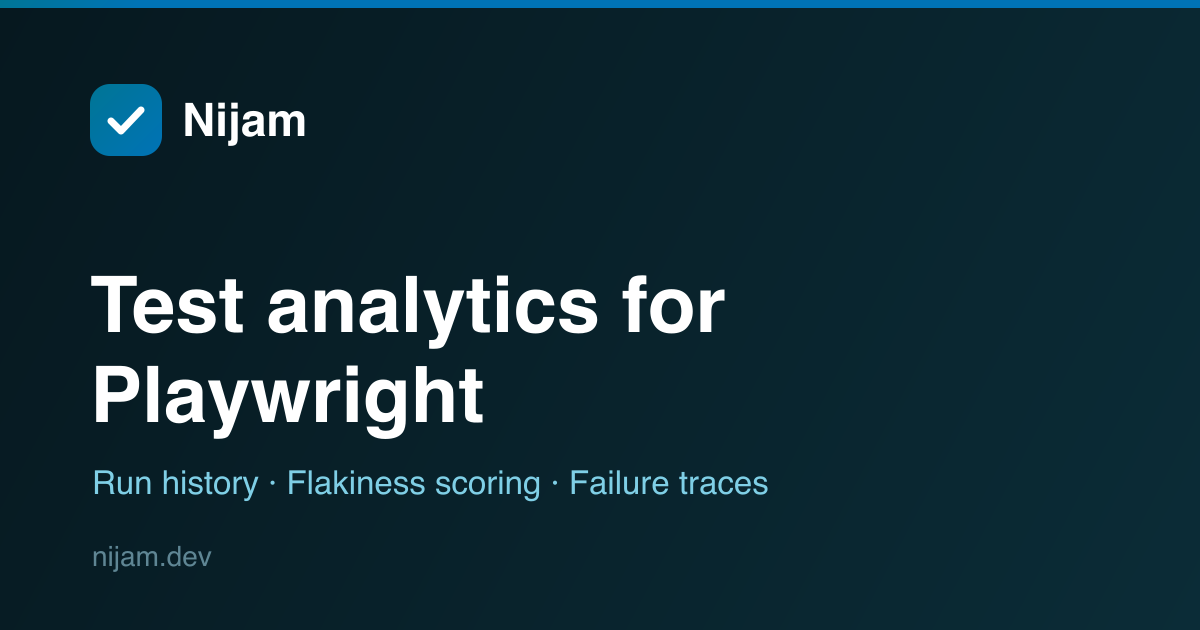
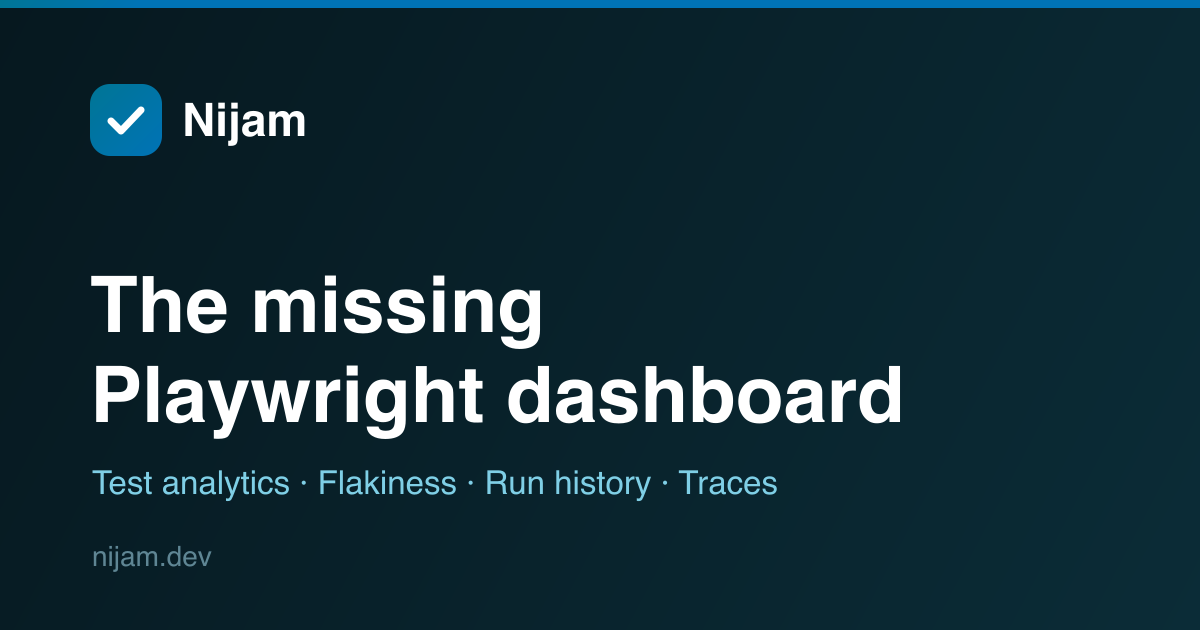
chore: update og and seo titles for dashboard pages

Changed region(s): [[0.0925, 0.4222, 0.7708, 0.6937], [0.0617, 0.7238, 0.6475, 0.7841]]

diff --git a/src/lib/seo.ts b/src/lib/seo.ts
@@ -9,9 +9,9 @@ const SITE_URL = 'https://www.nijam.dev';
 const SITE_NAME = 'Nijam';
 const OG_IMAGE = `${SITE_URL}/og.png`;
 
-export const DEFAULT_TITLE = 'Nijam — test analytics for Playwright';
+export const DEFAULT_TITLE = 'Nijam — Playwright test analytics & flakiness dashboard';
 export const DEFAULT_DESCRIPTION =
-  'Nijam captures every Playwright run from CI and gives you run history, flakiness scoring, and failure traces. Think Sentry, for your Playwright suite.';
+  'The missing dashboard for your Playwright suite — run history, flakiness scoring, and failure traces from every CI run. Think Sentry, for Playwright.';
 
 interface SeoInput {
   /** Page-specific title; rendered as "<title> · Nijam". Omit for the site default. */
@@ -46,4 +46,22 @@ export function seo({ title, description, path = '', noindex = false }: SeoInput
   ];
 
   return { meta, links: [{ rel: 'canonical', href: url }] };
+}
+
+/**
+ * Minimal head for private (dashboard) pages: a page title + `noindex`. No OG or
+ * canonical — these pages are never indexed or shared, and a canonical on a
+ * noindexed page sends mixed signals to crawlers.
+ */
+export function privateSeo(title: string) {
+  return {
+    meta: [{ title: `${title} · ${SITE_NAME}` }, { name: 'robots', content: 'noindex, nofollow' }],
+  };
+}
+
+/** Site-wide fallback head (root route): a default indexable title + description. */
+export function baseHead() {
+  return {
+    meta: [{ title: DEFAULT_TITLE }, { name: 'description', content: DEFAULT_DESCRIPTION }],
+  };
 }

diff --git a/index.html b/index.html
@@ -7,28 +7,36 @@
     <!-- Static SEO fallbacks for non-JS scrapers (homepage defaults). When the app
          boots, main.tsx removes [data-seo-default] and TanStack Router's
          <HeadContent /> takes over with the correct per-route tags. -->
-    <title data-seo-default>Nijam — test analytics for Playwright</title>
+    <title data-seo-default>Nijam — Playwright test analytics &amp; flakiness dashboard</title>
     <meta
       data-seo-default
       name="description"
-      content="Nijam captures every Playwright run from CI and gives you run history, flakiness scoring, and failure traces. Think Sentry, for your Playwright suite."
+      content="The missing dashboard for your Playwright suite — run history, flakiness scoring, and failure traces from every CI run. Think Sentry, for Playwright."
     />
     <meta data-seo-default property="og:type" content="website" />
     <meta data-seo-default property="og:site_name" content="Nijam" />
-    <meta data-seo-default property="og:title" content="Nijam — test analytics for Playwright" />
+    <meta
+      data-seo-default
+      property="og:title"
+      content="Nijam — Playwright test analytics &amp; flakiness dashboard"
+    />
     <meta
       data-seo-default
       property="og:description"
-      content="Run history, flakiness scoring, and failure traces for your Playwright suite."
+      content="The missing dashboard for your Playwright suite — run history, flakiness scoring, and failure traces from every CI run."
     />
     <meta data-seo-default property="og:url" content="https://www.nijam.dev" />
     <meta data-seo-default property="og:image" content="https://www.nijam.dev/og.png" />
     <meta data-seo-default name="twitter:card" content="summary_large_image" />
-    <meta data-seo-default name="twitter:title" content="Nijam — test analytics for Playwright" />
+    <meta
+      data-seo-default
+      name="twitter:title"
+      content="Nijam — Playwright test analytics &amp; flakiness dashboard"
+    />
     <meta
       data-seo-default
       name="twitter:description"
-      content="Run history, flakiness scoring, and failure traces for your Playwright suite."
+      content="The missing dashboard for your Playwright suite — run history, flakiness scoring, and failure traces from every CI run."
     />
     <meta data-seo-default name="twitter:image" content="https://www.nijam.dev/og.png" />
     <link data-seo-default rel="canonical" href="https://www.nijam.dev" />

diff --git a/src/routes/__root.tsx b/src/routes/__root.tsx
@@ -1,15 +1,17 @@
 import { createRootRouteWithContext, HeadContent, Outlet } from '@tanstack/react-router';
 import type { QueryClient } from '@tanstack/react-query';
-import { seo } from '@/lib/seo';
+import { baseHead } from '@/lib/seo';
 
 export interface RouterContext {
   queryClient: QueryClient;
 }
 
 export const Route = createRootRouteWithContext<RouterContext>()({
-  // Site-wide default head (title/description/OG). Public routes override per page;
-  // this keeps every tab — including the auth-gated dashboard — from going titleless.
-  head: () => seo(),
+  // Site-wide fallback head so no tab is ever titleless. Public routes override
+  // with full seo() (OG/canonical); dashboard routes override with privateSeo()
+  // (title + noindex). Keeping OG/canonical out of here means they only appear on
+  // the public pages that actually set them.
+  head: () => baseHead(),
   component: RootDocument,
 });
 

diff --git a/src/routes/_authed/orgs.$orgId.keys.tsx b/src/routes/_authed/orgs.$orgId.keys.tsx
@@ -13,8 +13,12 @@ import { EmptyState } from '@/components/states/EmptyState';
 import { SettingsPanel } from '@/components/settings/SettingsPanel';
 import { KeyRow } from '@/components/keys/KeyRow';
 import { CreateSecretKeyDialog } from '@/components/keys/CreateSecretKeyDialog';
+import { privateSeo } from '@/lib/seo';
 
-export const Route = createFileRoute('/_authed/orgs/$orgId/keys')({ component: SecretKeysPage });
+export const Route = createFileRoute('/_authed/orgs/$orgId/keys')({
+  head: () => privateSeo('API keys'),
+  component: SecretKeysPage,
+});
 
 function SecretKeysPage() {
   const { orgId } = Route.useParams();

diff --git a/src/routes/_authed/orgs.$orgId.projects.$projectId.explorer_.$testId.tsx b/src/routes/_authed/orgs.$orgId.projects.$projectId.explorer_.$testId.tsx
@@ -25,10 +25,14 @@ import { testStatusMeta } from '@/components/runs/test-status';
 import { displayFile } from '@/lib/format';
 import { gitFileUrl } from '@/lib/git';
 import { cn } from '@/lib/utils';
+import { privateSeo } from '@/lib/seo';
 
 export const Route = createFileRoute(
   '/_authed/orgs/$orgId/projects/$projectId/explorer_/$testId',
-)({ component: TestDetailPage });
+)({
+  head: () => privateSeo('Test detail'),
+  component: TestDetailPage,
+});
 
 function TestDetailPage() {
   const { orgId, projectId, testId } = Route.useParams();

diff --git a/src/routes/_authed/orgs.$orgId.projects.index.tsx b/src/routes/_authed/orgs.$orgId.projects.index.tsx
@@ -15,8 +15,12 @@ import { ErrorState } from '@/components/states/ErrorState';
 import { ProjectCard } from '@/components/projects/ProjectCard';
 import { ProjectsSkeleton } from '@/components/projects/ProjectsSkeleton';
 import { NewProjectDialog } from '@/components/projects/NewProjectDialog';
+import { privateSeo } from '@/lib/seo';
 
-export const Route = createFileRoute('/_authed/orgs/$orgId/projects/')({ component: ProjectsPage });
+export const Route = createFileRoute('/_authed/orgs/$orgId/projects/')({
+  head: () => privateSeo('Projects'),
+  component: ProjectsPage,
+});
 
 function ProjectsPage() {
   const { orgId } = Route.useParams();

diff --git a/src/routes/_authed/orgs.$orgId.users.tsx b/src/routes/_authed/orgs.$orgId.users.tsx
@@ -41,8 +41,12 @@ import { UserAvatar } from '@/components/users/UserAvatar';
 import { isApiError } from '@/lib/api-error';
 import { timeAgo } from '@/lib/format';
 import { notify } from '@/lib/notify';
+import { privateSeo } from '@/lib/seo';
 
-export const Route = createFileRoute('/_authed/orgs/$orgId/users')({ component: UsersPage });
+export const Route = createFileRoute('/_authed/orgs/$orgId/users')({
+  head: () => privateSeo('Members'),
+  component: UsersPage,
+});
 
 function UsersPage() {
   const { orgId } = Route.useParams();

diff --git a/src/routes/_authed/orgs.index.tsx b/src/routes/_authed/orgs.index.tsx
@@ -14,8 +14,12 @@ import { ThemeSegmentedControl } from '@/components/theme/ThemeSegmentedControl'
 import { AccountMenu } from '@/components/users/AccountMenu';
 import { OrgAvatar } from '@/components/orgs/OrgAvatar';
 import { CreateOrgDialog } from '@/components/orgs/CreateOrgDialog';
+import { privateSeo } from '@/lib/seo';
 
-export const Route = createFileRoute('/_authed/orgs/')({ component: OrgsPicker });
+export const Route = createFileRoute('/_authed/orgs/')({
+  head: () => privateSeo('Organizations'),
+  component: OrgsPicker,
+});
 
 function OrgsPicker() {
   const { data, isLoading, error, refetch } = useQuery(listOrgsOptions());

diff --git a/src/routes/_authed/route.tsx b/src/routes/_authed/route.tsx
@@ -1,7 +1,11 @@
 import { createFileRoute, Outlet, redirect } from '@tanstack/react-router';
 import { getMeOptions } from '@/client/@tanstack/react-query.gen';
+import { privateSeo } from '@/lib/seo';
 
 export const Route = createFileRoute('/_authed')({
+  // Every dashboard page is noindex + gets a baseline title. Leaf routes override
+  // the title; this guarantees none are titleless or indexable even if one is missed.
+  head: () => privateSeo('Dashboard'),
   // Gate every nested route behind /v1/auth/me. Redirect to /login on 401.
   // The dashboard shell lives in the org layout (orgs.$orgId), not here, so the
   // org picker (/orgs) renders without it.

diff --git a/src/routes/_authed/orgs.$orgId.billing.tsx b/src/routes/_authed/orgs.$orgId.billing.tsx
@@ -27,8 +27,10 @@ import { UsageMeter, type MeterTone } from '@/components/billing/UsageMeter';
 import { formatCents, formatCount, formatResetDate, isPro, usagePercent } from '@/lib/billing';
 import { isApiError } from '@/lib/api-error';
 import { notify } from '@/lib/notify';
+import { privateSeo } from '@/lib/seo';
 
 export const Route = createFileRoute('/_authed/orgs/$orgId/billing')({
+  head: () => privateSeo('Billing'),
   // `?upgraded=1` is set by the Polar checkout success redirect.
   validateSearch: (search: Record<string, unknown>): { upgraded?: boolean } =>
     search.upgraded === '1' || search.upgraded === true ? { upgraded: true } : {},

diff --git a/src/routes/_authed/orgs.$orgId.projects.$projectId.explorer.tsx b/src/routes/_authed/orgs.$orgId.projects.$projectId.explorer.tsx
@@ -9,8 +9,10 @@ import { Skeleton } from '@/components/ui/skeleton';
 import { ErrorState } from '@/components/states/ErrorState';
 import { EmptyState } from '@/components/states/EmptyState';
 import { TestRow } from '@/components/explorer/TestRow';
+import { privateSeo } from '@/lib/seo';
 
 export const Route = createFileRoute('/_authed/orgs/$orgId/projects/$projectId/explorer')({
+  head: () => privateSeo('Test explorer'),
   component: ExplorerPage,
 });
 

diff --git a/src/routes/_authed/orgs.$orgId.projects.$projectId.flaky.tsx b/src/routes/_authed/orgs.$orgId.projects.$projectId.flaky.tsx
@@ -7,8 +7,10 @@ import { Skeleton } from '@/components/ui/skeleton';
 import { ErrorState } from '@/components/states/ErrorState';
 import { EmptyState } from '@/components/states/EmptyState';
 import { TestRow } from '@/components/explorer/TestRow';
+import { privateSeo } from '@/lib/seo';
 
 export const Route = createFileRoute('/_authed/orgs/$orgId/projects/$projectId/flaky')({
+  head: () => privateSeo('Flaky tests'),
   component: FlakyPage,
 });
 